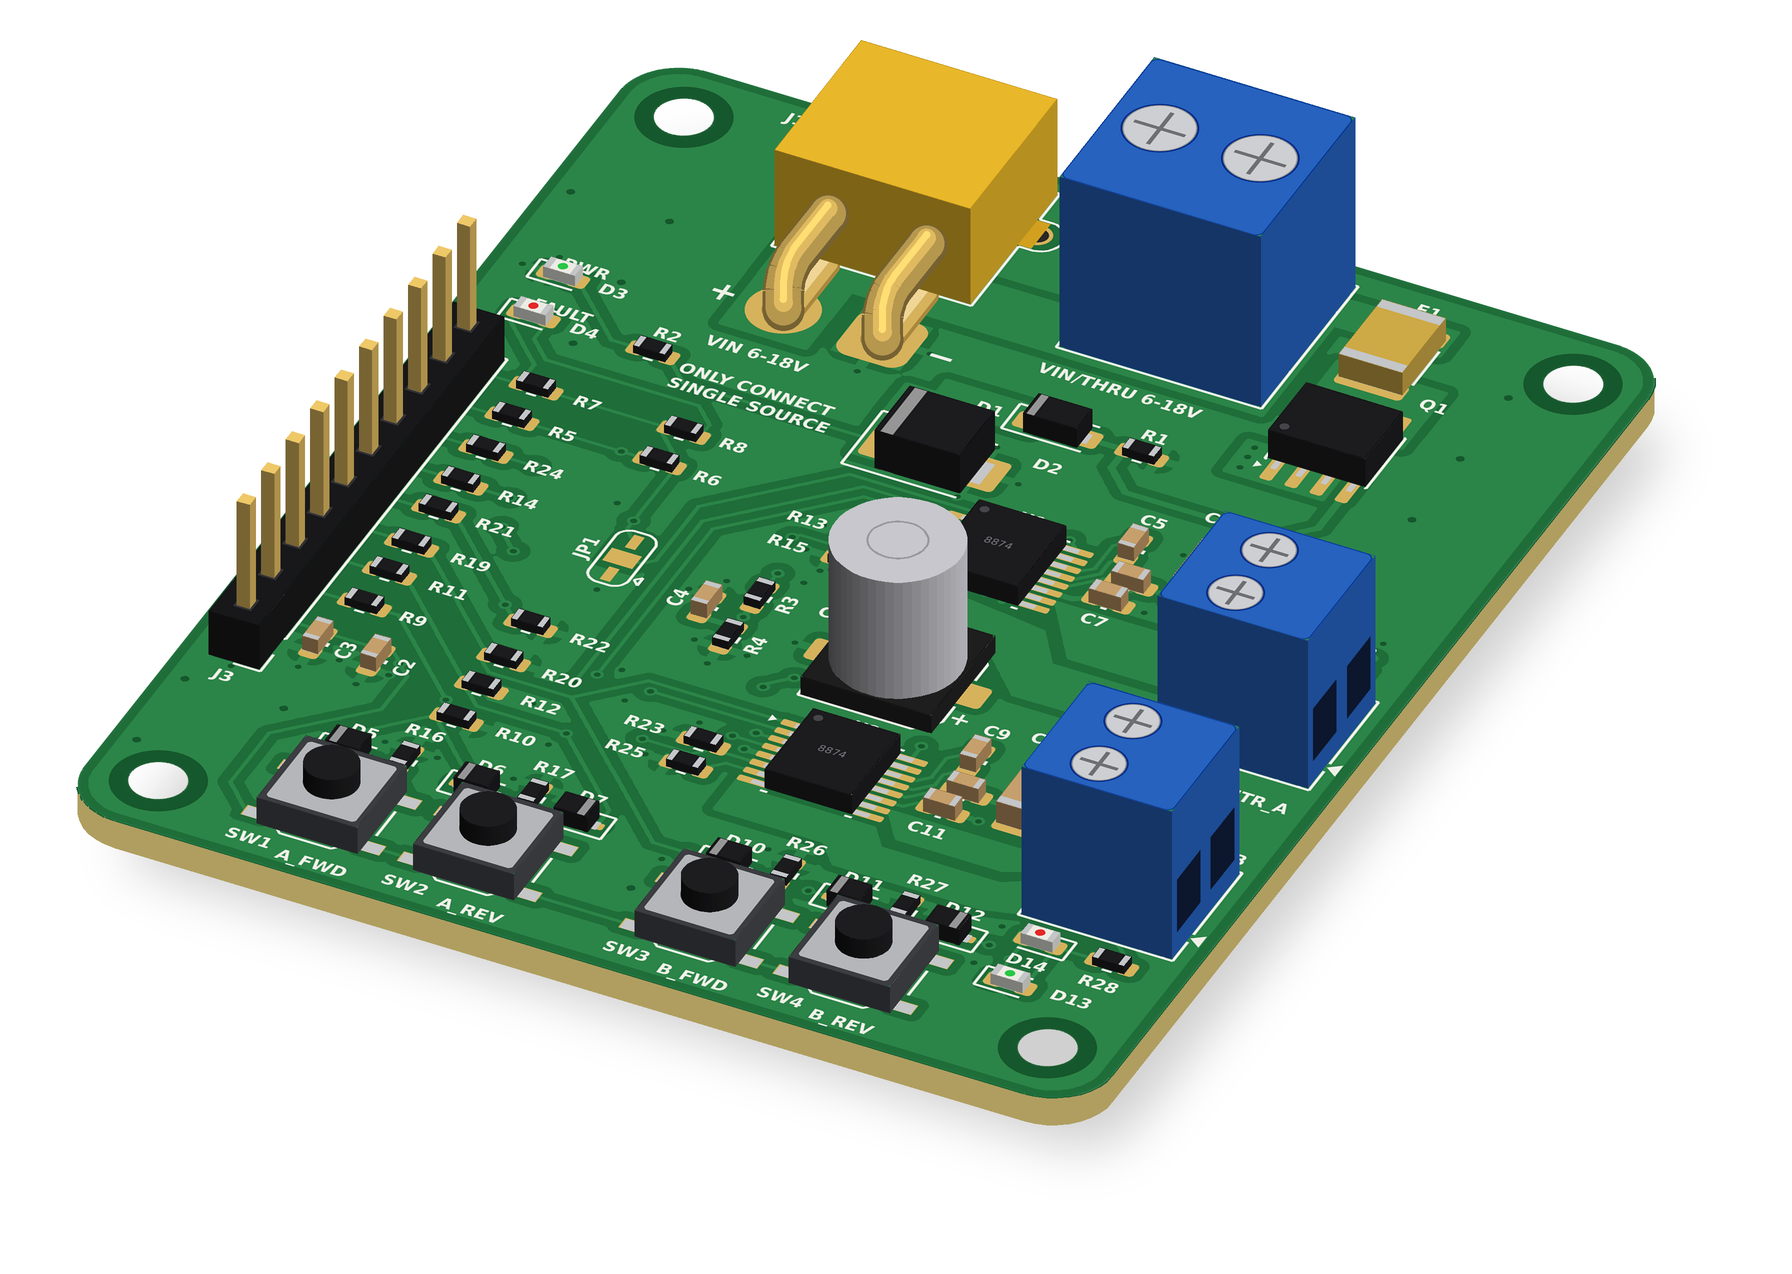
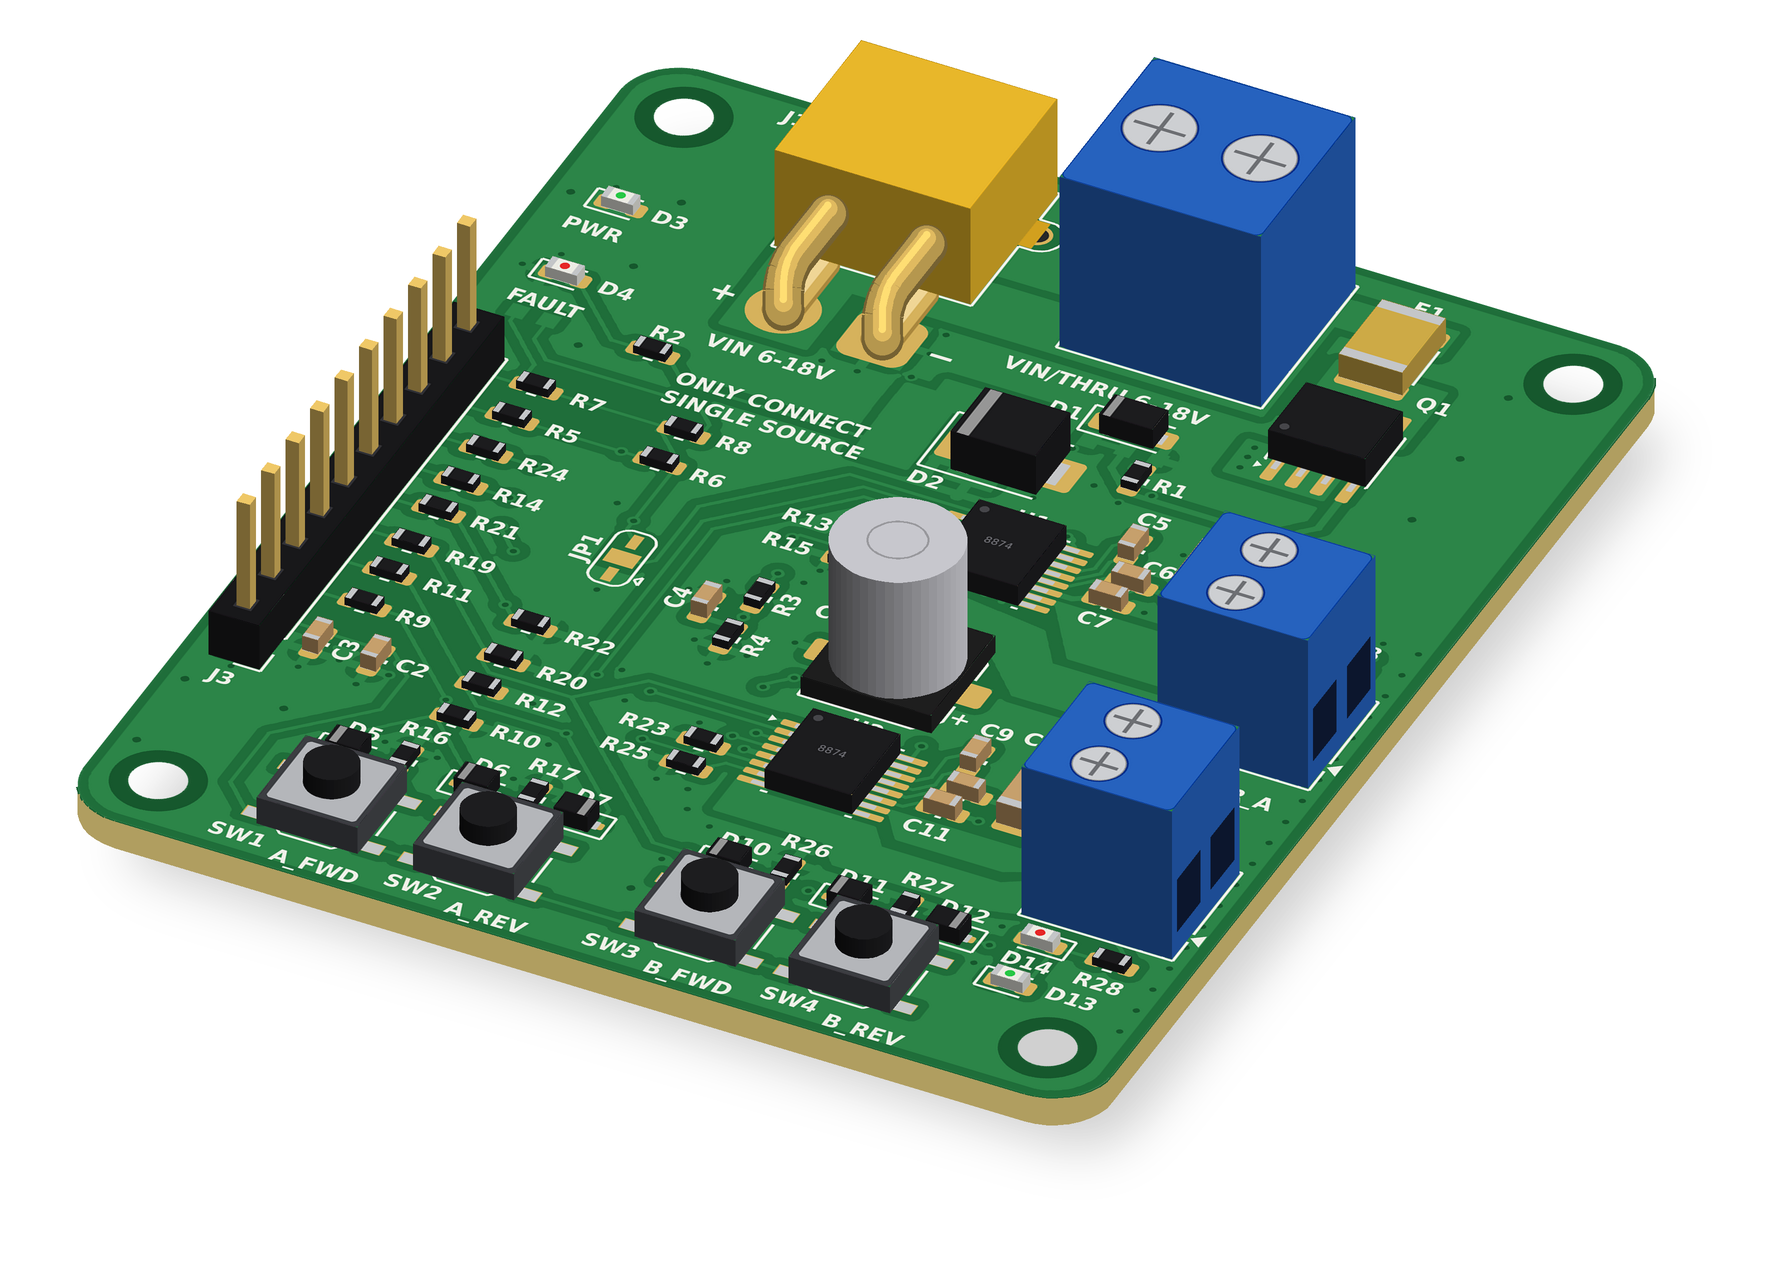
Forward is now PH high / OUT1 positive (TI's convention)
- Both libraries: forward drives PH high (PH/EN) or IN1 high, IN2 low (PWM mode).
- Tests updated for the new pin levels.
- Guide: truth tables, buttons (FWD = EN + PH), LED table (D8/D13 green,
  D9/D14 red), gpiozero notes, troubleshooting.
- Board images re-rendered from the latest PCB with the new LED colours.

Claude-Session: https://claude.ai/code/session_01XXg2TNx117Z3k1hh7we5dc

diff --git a/python/pingoblin_motor/motor.py b/python/pingoblin_motor/motor.py
@@ -20,12 +20,12 @@ _log = logging.getLogger("pingoblin_motor")
 class Direction(enum.Enum):
     """Direction of rotation.
 
-    "Forward" follows the board's convention: PH low, OUT2 positive. Which way the shaft
+    "Forward" follows the board's (and TI's) convention: PH high, OUT1 positive. Which way the shaft
     turns depends on the wiring; use `invert=True` to swap.
 
     Attributes:
-        FORWARD: PH low (OUT2 positive).
-        REVERSE: PH high (OUT1 positive).
+        FORWARD: PH high (OUT1 positive).
+        REVERSE: PH low (OUT2 positive).
     """
 
     FORWARD = "forward"
@@ -513,22 +513,22 @@ class Motor:
         self._ramp_thread = threading.Thread(target=worker, name=f"ramp-{self.full_name}", daemon=True)
         self._ramp_thread.start()
 
-    # Pin level control. PH/EN: forward = PH low. PWM mode uses slow decay
+    # Pin level control. PH/EN: forward = PH high (OUT1 positive). PWM mode uses slow decay
     # (off-time = brake) so speed response matches PH/EN mode.
     def _apply_drive(self, duty: float) -> None:
         duty = max(0.0, min(1.0, duty))
         self._duty = duty
         fwd = (self._direction is Direction.FORWARD) != self.invert
         if self.mode is ControlMode.PH_EN:
-            self._ph.set(not fwd)
+            self._ph.set(fwd)
             self._en.set_duty(duty)
-        else:  # IN1=en, IN2=ph. Forward: IN1 low, IN2 high.
+        else:  # IN1=en, IN2=ph. Forward: IN1 high, IN2 low (OUT1 positive).
             if fwd:
-                self._ph.set_duty(1.0)
-                self._en.set_duty(1.0 - duty)
-            else:
                 self._en.set_duty(1.0)
                 self._ph.set_duty(1.0 - duty)
+            else:
+                self._ph.set_duty(1.0)
+                self._en.set_duty(1.0 - duty)
 
     def _apply_brake(self) -> None:
         self._duty = 0.0

diff --git a/python/tests/test_library.py b/python/tests/test_library.py
@@ -39,10 +39,10 @@ def test_forward_reverse_ph_en():
     board, be, *_ = make_board()
     a = board.motor_a
     a.forward(50)
-    assert pins(be)[5].value is False and pins(be)[12].duty == 0.5
+    assert pins(be)[5].value is True and pins(be)[12].duty == 0.5
     assert a.state is MotorState.RUNNING and a.direction is Direction.FORWARD
     a.reverse(75)
-    assert pins(be)[5].value is True and pins(be)[12].duty == 0.75
+    assert pins(be)[5].value is False and pins(be)[12].duty == 0.75
     a.stop()
     assert pins(be)[12].duty == 0 and a.state is MotorState.STOPPED
     board.close()
@@ -51,7 +51,7 @@ def test_forward_reverse_ph_en():
 def test_run_signed_and_invert():
     board, be, *_ = make_board(a_options=dict(invert=True))
     board.motor_a.run(-40)
-    assert pins(be)[5].value is False          # inverted: reverse drives PH low
+    assert pins(be)[5].value is True           # inverted: reverse drives PH high
     assert board.motor_a.direction is Direction.REVERSE
     board.motor_a.run(0)
     assert board.motor_a.state is MotorState.STOPPED
@@ -113,10 +113,10 @@ def test_ramp():
 def test_pwm_mode_slow_decay():
     board, be, *_ = make_board(mode="pwm")
     a = board.motor_a
-    a.forward(30)             # IN1 = 1 - duty, IN2 = 1
-    assert pins(be)[12].duty == pytest.approx(0.7) and pins(be)[5].duty == 1.0
-    a.reverse(30)
+    a.forward(30)             # IN1 = 1, IN2 = 1 - duty (OUT1 positive)
     assert pins(be)[12].duty == 1.0 and pins(be)[5].duty == pytest.approx(0.7)
+    a.reverse(30)             # IN1 = 1 - duty, IN2 = 1 (OUT2 positive)
+    assert pins(be)[12].duty == pytest.approx(0.7) and pins(be)[5].duty == 1.0
     a.stop()                  # brake = both high
     assert pins(be)[12].duty == 1.0 and pins(be)[5].duty == 1.0
     assert a.coast() is True  # coast = both low

diff --git a/micropython/tests/test_micropython_port.py b/micropython/tests/test_micropython_port.py
@@ -81,10 +81,10 @@ def test_forward_reverse_stop():
     b, pins, *_ = make_board()
     a = b.motor_a
     a.forward(50)
-    assert P(pins)[5].value is False and P(pins)[12].duty == 0.5
+    assert P(pins)[5].value is True and P(pins)[12].duty == 0.5
     assert a.state == MotorState.RUNNING and a.direction == Direction.FORWARD
     a.reverse(75)
-    assert P(pins)[5].value is True and P(pins)[12].duty == 0.75
+    assert P(pins)[5].value is False and P(pins)[12].duty == 0.75
     a.stop()
     assert P(pins)[12].duty == 0 and a.state == MotorState.STOPPED
     b.close()
@@ -99,7 +99,7 @@ def test_default_pwm_frequency_is_20k():
 def test_run_signed_invert_and_min_speed():
     b, pins, *_ = make_board(a_options=dict(invert=True, min_speed_pc=20, reverse_delay=0))
     b.motor_a.run(-10)
-    assert P(pins)[5].value is False and P(pins)[12].duty == pytest.approx(0.2)
+    assert P(pins)[5].value is True and P(pins)[12].duty == pytest.approx(0.2)
     with pytest.raises(ValueError):
         b.motor_a.forward(101)
     b.close()
@@ -151,9 +151,9 @@ def test_pwm_mode_slow_decay_and_coast():
     b, pins, *_ = make_board(mode="pwm")
     a = b.motor_a
     a.forward(30)
-    assert P(pins)[12].duty == pytest.approx(0.7) and P(pins)[5].duty == 1.0
-    a.reverse(30)
     assert P(pins)[12].duty == 1.0 and P(pins)[5].duty == pytest.approx(0.7)
+    a.reverse(30)
+    assert P(pins)[12].duty == pytest.approx(0.7) and P(pins)[5].duty == 1.0
     assert a.coast() is True and P(pins)[12].duty == 0 and P(pins)[5].duty == 0
     b.close()
 

diff --git a/micropython/pingoblin_motor.py b/micropython/pingoblin_motor.py
@@ -84,8 +84,8 @@ class Direction:
     """Direction of rotation (string constants).
 
     Attributes:
-        FORWARD: `"forward"`: PH low, OUT2 positive.
-        REVERSE: `"reverse"`: PH high, OUT1 positive.
+        FORWARD: `"forward"`: PH high, OUT1 positive (TI's convention).
+        REVERSE: `"reverse"`: PH low, OUT2 positive.
     """
 
     FORWARD = "forward"
@@ -1124,14 +1124,14 @@ class Motor:
         self._duty = duty
         fwd = (self._direction == Direction.FORWARD) != self.invert
         if self.mode == ControlMode.PH_EN:
-            self._ph.set(not fwd)               # forward = PH low
+            self._ph.set(fwd)                   # forward = PH high (OUT1 positive)
             self._en.set_duty(duty)
-        elif fwd:                               # PWM mode, slow decay: IN1 = 1-duty, IN2 = 1
-            self._ph.set_duty(1.0)
-            self._en.set_duty(1.0 - duty)
-        else:
+        elif fwd:                               # PWM mode, slow decay: IN1 = 1, IN2 = 1-duty
             self._en.set_duty(1.0)
             self._ph.set_duty(1.0 - duty)
+        else:
+            self._ph.set_duty(1.0)
+            self._en.set_duty(1.0 - duty)
 
     def _apply_brake(self):
         self._duty = 0.0

diff --git a/micropython/tests/mp_smoke.py b/micropython/tests/mp_smoke.py
@@ -22,7 +22,7 @@ a.forward(60)
 assert a.is_running and a.direction == pm.Direction.FORWARD, a
 assert abs(pins.pins[12].duty - 0.6) < 0.01
 a.reverse(30)
-assert a.direction == pm.Direction.REVERSE and pins.pins[5].value == 1
+assert a.direction == pm.Direction.REVERSE and pins.pins[5].value == 0
 a.stop()
 assert a.state == pm.MotorState.STOPPED
 

diff --git a/docs/guide/controlling-motors.md b/docs/guide/controlling-motors.md
@@ -2,13 +2,13 @@
 
 In the default PH/EN mode, each motor needs two pins: **EN** turns it on and sets the
 speed with PWM, and **PH** sets the direction. This is the same scheme as gpiozero's
-`PhaseEnableMotor`. The table is for motor A; motor B is identical using B_EN and B_PH.
+`PhaseEnableMotor`, except that gpiozero calls PH low "forward" (see below). The table is for motor A; motor B is identical using B_EN and B_PH.
 
 | nSLEEP | A_EN | A_PH | OUT1 | OUT2 | Motor | LED |
 | --- | --- | --- | --- | --- | --- | --- |
 | High (default) | Low | Any | Low | Low | Brake (stops quickly) | Off |
-| High | High / PWM | Low | Low | High | Forward | Green |
-| High | High / PWM | High | High | Low | Reverse | Red |
+| High | High / PWM | High | High | Low | Forward | Green |
+| High | High / PWM | Low | Low | High | Reverse | Red |
 | Low | Any | Any | Open | Open | Coast (sleep, near-zero current) | Off |
 
 **Speed:** drive EN with PWM. The duty cycle sets the speed, and in the PWM off-time the
@@ -26,8 +26,9 @@ drivers are awake whenever VLOGIC is present.
 **Start-up behaviour:** EN and PH have pull-down resistors, so while the host is booting
 (pins floating) both motors are held in brake.
 
-"Forward" and "reverse" here follow the gpiozero convention (PH low = forward). Which way
-the shaft actually turns depends on how the motor is wired.
+"Forward" and "reverse" here follow TI's convention for the DRV8874: PH high = forward, with
+OUT1 positive (green LED). Which way the shaft actually turns depends on how the motor is
+wired; swap its two leads, or use `invert=True` in the library, to change it.
 
 !!! note "Coast and nSLEEP"
     In PH/EN mode the only way to coast is to sleep the driver, and nSLEEP is shared by
@@ -51,8 +52,8 @@ simple enough to drive by hand. Speed runs from −1.0 (full reverse) to 1.0 (fu
     FAULT = Pin(39, Pin.IN)                       # J3 pin 10 (pulled up on board)
 
     def drive(en, ph, speed):
-        """speed -1.0..1.0; positive = forward (PH low)."""
-        ph.value(1 if speed < 0 else 0)
+        """speed -1.0..1.0; positive = forward (PH high, OUT1 positive)."""
+        ph.value(1 if speed > 0 else 0)
         en.duty_u16(int(min(abs(speed), 1.0) * 65535))
 
     def amps(adc):
@@ -81,8 +82,10 @@ simple enough to drive by hand. Speed runs from −1.0 (full reverse) to 1.0 (fu
     motor_b.enable_device.frequency = 1000
     fault = DigitalInputDevice(19, pull_up=None, active_state=False)  # J3 pin 10
 
-    motor_a.forward(0.5)
-    motor_b.backward(0.75)
+    # gpiozero's forward() drives PH low, which is this board's reverse,
+    # so backward() runs a motor forward here.
+    motor_a.backward(0.5)   # forward (OUT1 positive, green LED)
+    motor_b.forward(0.75)   # reverse (OUT2 positive, red LED)
     sleep(2)
     print("Fault or current limit:", fault.is_active)
     motor_a.stop()   # brake

diff --git a/docs/guide/buttons-leds.md b/docs/guide/buttons-leds.md
@@ -5,8 +5,8 @@ check the wiring before writing any code.
 
 | Button | What it does |
 | --- | --- |
-| SW1 A FWD | Motor A forward (EN high, PH low) |
-| SW2 A REV | Motor A reverse (EN high, PH high) |
+| SW1 A FWD | Motor A forward (EN high, PH high: OUT1 positive) |
+| SW2 A REV | Motor A reverse (EN high, PH low: OUT2 positive) |
 | SW3 B FWD | Motor B forward |
 | SW4 B REV | Motor B reverse |
 
@@ -16,9 +16,9 @@ check the wiring before writing any code.
   low: 1 kΩ resistors protect the host's GPIOs.
 - They work only in PH/EN mode (the default jumper setting).
 
-!!! info "Pressing FWD and REV together gives reverse"
-    REV drives both EN and PH high, while FWD only drives EN, so REV wins. The result is
-    the same as pressing REV alone and can't harm the board or the host. Release one
+!!! info "Pressing FWD and REV together gives forward"
+    FWD drives both EN and PH high, while REV only drives EN, so FWD wins. The result is
+    the same as pressing FWD alone and can't harm the board or the host. Release one
     button before pressing the other: flipping from forward to reverse at full speed
     causes a current surge (the fault LED flickers as the current limit catches it) and is
     hard on gearboxes.
@@ -29,8 +29,8 @@ check the wiring before writing any code.
 | --- | --- | --- |
 | Power | Green | Motor supply present (after the reverse-polarity switch) |
 | Fault | Red | A driver is limiting current or has detected a fault (same signal as nFAULT) |
-| Motor A / B direction | Green | Motor running forward (OUT2 positive). Brightness follows PWM duty |
-| Motor A / B direction | Red | Motor running reverse (OUT1 positive). Brightness follows PWM duty |
+| Motor A / B direction | Green | Motor running forward (OUT1 positive). Brightness follows PWM duty |
+| Motor A / B direction | Red | Motor running reverse (OUT2 positive). Brightness follows PWM duty |
 
 A direction LED may glow faintly if you spin an unpowered motor by hand. This is normal:
 the motor is acting as a generator.

diff --git a/docs/guide/troubleshooting.md b/docs/guide/troubleshooting.md
@@ -6,7 +6,7 @@
 | Power LED on, motors do nothing, buttons do nothing | VLOGIC missing, or nSLEEP held low | Feed 3.3–5 V to J3 pin 2 and connect GND (pin 1). Disconnect or drive nSLEEP (pin 9) high |
 | Buttons work, host code does nothing | Wrong GPIO numbers, no common GND, or EN never goes high | Check the pin mapping and the GND link. Measure EN (pin 3/5) while the code runs |
 | Buttons do nothing but host code works | PMODE jumper set to PWM mode | Buttons work only in PH/EN mode (JP1 pads 1–2) |
-| Motor runs only one direction | PH not connected or not changing | Check pin 4/6 wiring. With PH open, the motor always runs forward |
+| Motor runs only one direction | PH not connected or not changing | Check pin 4/6 wiring. With PH open, the motor always runs in reverse (PH has a pull-down) |
 | Motor turns the wrong way | Motor wires swapped | Swap the wires at J4/J5, or set the library's `invert=True` option |
 | Motor stutters, fault LED flickers | Current limit active (load near 2 A at 3.3 V logic, 3 A at 5 V) | Reduce load or speed. A larger motor needs 5 V logic or a bigger driver |
 | Motor runs, then stops and restarts every few seconds | Driver overheating, or the board fuse tripping | Improve airflow and reduce continuous current. Keep the total under 3 A |

diff --git a/docs/guide/configuration.md b/docs/guide/configuration.md
@@ -22,13 +22,13 @@ Motor A; motor B is the same.
 | IN1 (pin 3) | IN2 (pin 4) | OUT1 | OUT2 | Motor |
 | --- | --- | --- | --- | --- |
 | Low | Low | Open | Open | Coast |
-| Low | High | Low | High | Forward |
-| High | Low | High | Low | Reverse |
+| High | Low | High | Low | Forward |
+| Low | High | Low | High | Reverse |
 | High | High | Low | Low | Brake |
 
 PWM mode suits libraries written for two-input drivers such as the L298N or DRV8833
 (gpiozero `Motor`, Arduino `analogWrite` on either pin). With gpiozero's `Motor` class,
-pass `forward=` J3 pin 4 (IN2) and `backward=` J3 pin 3 (IN1) so its directions match the
+pass `forward=` J3 pin 3 (IN1) and `backward=` J3 pin 4 (IN2) so its directions match the
 table above.
 
 In PWM mode each motor can coast on its own, without sleeping the board.

diff --git a/docs/guide/board-overview.md b/docs/guide/board-overview.md
@@ -33,8 +33,8 @@ See [Test buttons and LEDs](buttons-leds.md) for how the buttons behave with a h
 | --- | --- | --- |
 | D3 | Green | PWR: motor supply present |
 | D4 | Red | FAULT: a driver is limiting current or has a fault |
-| D9 / D14 | Green | Motor A / B running forward |
-| D8 / D13 | Red | Motor A / B running reverse |
+| D8 / D13 | Green | Motor A / B running forward (OUT1 positive) |
+| D9 / D14 | Red | Motor A / B running reverse (OUT2 positive) |
 
 ## Main parts
 
